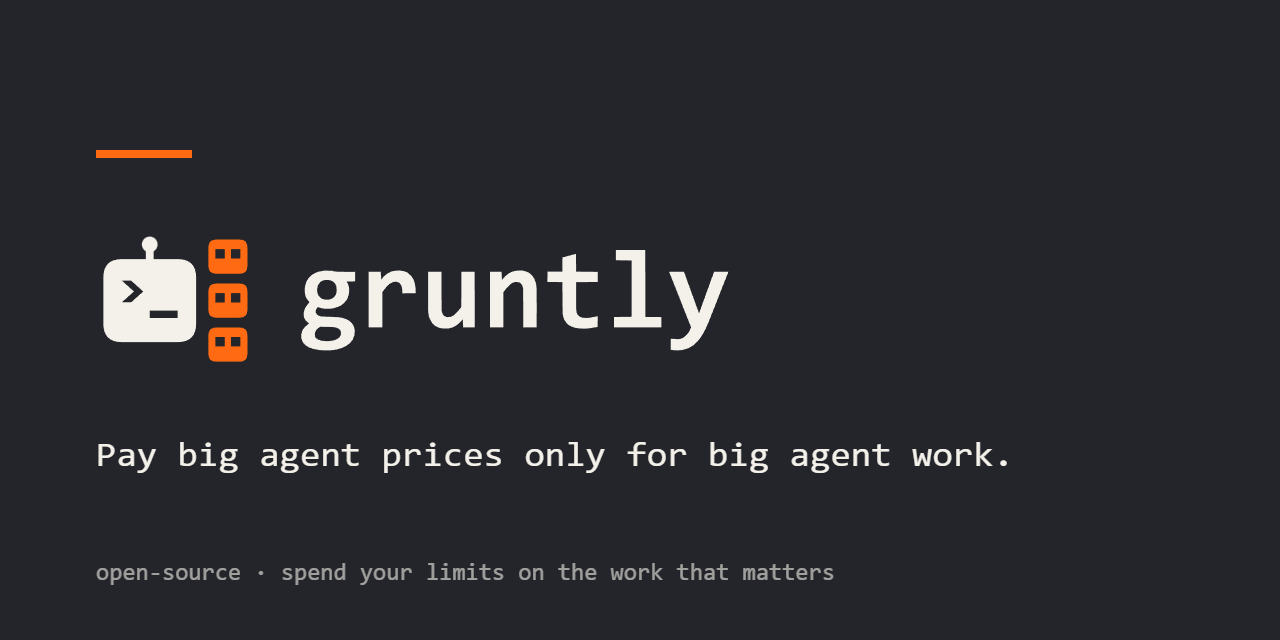
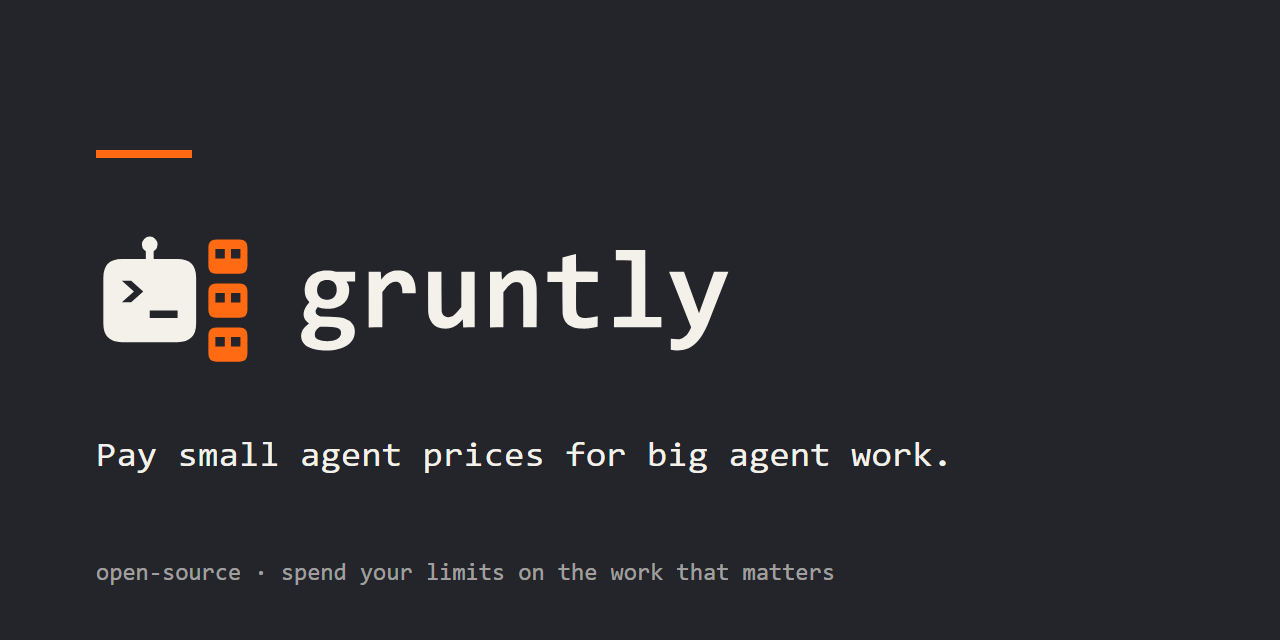
Change the headline to "Pay small agent prices for big agent work." in the README, the brand notes and the social preview

diff --git a/docs/brand/README.md b/docs/brand/README.md
@@ -2,7 +2,7 @@
 
 Logo: **one big agent, a few small ones.** A charcoal terminal-prompt head (the paid agent) with three small orange heads (the smaller models doing the grunt work).
 
-Tagline: **Hand the grunt work to small models.** Headline (README header and social preview): **Pay big agent prices only for big agent work.**
+Tagline: **Hand the grunt work to small models.** Headline (README header and social preview): **Pay small agent prices for big agent work.**
 
 Everything here is final. Use the files as they are. Do not redraw, recolour, retype or add effects (no gradients, glows, shadows, outlines).
 
@@ -81,7 +81,7 @@ Terminal (truecolor): orange `\x1b[38;2;255;106;19m`, cream `\x1b[38;2;244;241;2
 ## Notes
 
 - `svg/social-preview.svg` uses live `<text>`, so it depends on installed monospace fonts. Use the PNG for uploads.
-- The social preview (`github/social-preview-1280x640.png`, source `svg/social-preview.svg`) carries two lines, the maintainer's choice: the big one, **"Pay big agent prices only for big agent work."**, and the small grey one, "open-source · spend your limits on the work that matters". The README header shows the same two lines. The tagline in `brand.json` and in the package, plugin and CLI descriptions stays "Hand the grunt work to small models.", because those say what gruntly does. The numbers behind the image's lines, with where they hold and where they do not, are in `docs/where-delegation-wins.md`.
+- The social preview (`github/social-preview-1280x640.png`, source `svg/social-preview.svg`) carries two lines, the maintainer's choice: the big one, **"Pay small agent prices for big agent work."**, and the small grey one, "open-source · spend your limits on the work that matters". The README header shows the same two lines. The tagline in `brand.json` and in the package, plugin and CLI descriptions stays "Hand the grunt work to small models.", because those say what gruntly does. The numbers behind the image's lines, with where they hold and where they do not, are in `docs/where-delegation-wins.md`.
 - This folder is the kit without the site design reference (`reference/gruntly-site.html`) and the terminal demo page (`demo/terminal-demo.html`): both are website material and live with the website. Keep the full kit wherever the design files live.
 - The SVGs are clean (no metadata, no external references, no fonts) and safe to inline.
 - Logo source: concept 29 in the logo explorations.

diff --git a/CHANGELOG.md b/CHANGELOG.md
@@ -1,6 +1,7 @@
 # Changelog
 
 ## Unreleased
+- **New headline: "Pay small agent prices for big agent work."** (was "Pay big agent prices only for big agent work."). Changed in the README header, `docs/brand/README.md` and the social preview (`svg/social-preview.svg` and the rendered `github/social-preview-1280x640.png`; the line is 3 characters shorter, so the SVG text width went from 918 to 857). The GitHub repository social preview is set in the repository settings, so upload the new PNG there by hand.
 - Found by reading the website session's next log (2026-11-14 to 15, about 30 runs):
   - **A request that says "Do NOT modify any file" (screenshots, measurements) ran as a change.** It named `index.html`, so it was scoped to that page, told "Change only: index.html" and checked for a changed page: four runs "failed" by design ("narrated work", "stuck: gate acceptance", "escalate"), and in one the child asked the person which of two contradictory orders to follow. Such a request now runs like `--ask` (nothing is edited, no check wants a changed file) and the block says so. Only a ban that covers every file counts ("do not modify any file.", "... in the repo", "read-only task"); "any other file", "any file except X" and "any code in the tests" stay changes.
   - **A research run could be stopped "no edit after 420s" in the middle of its work** (a pixel measurement of 19 tool calls, answer lost). A question makes no edit to wait for, so the first-edit and stall limits no longer apply to it; its time budget still does.

diff --git a/README.md b/README.md
@@ -4,7 +4,7 @@
     <img alt="gruntly" src="docs/brand/svg/horizontal-color.svg" height="64">
   </picture>
 </p>
-<p align="center"><b>Pay big agent prices only for big agent work.</b></p>
+<p align="center"><b>Pay small agent prices for big agent work.</b></p>
 <p align="center">open-source · spend your limits on the work that matters</p>
 
 gruntly lets one big agent get its work done with a few small ones, and checks what they hand back before the big agent takes it.
